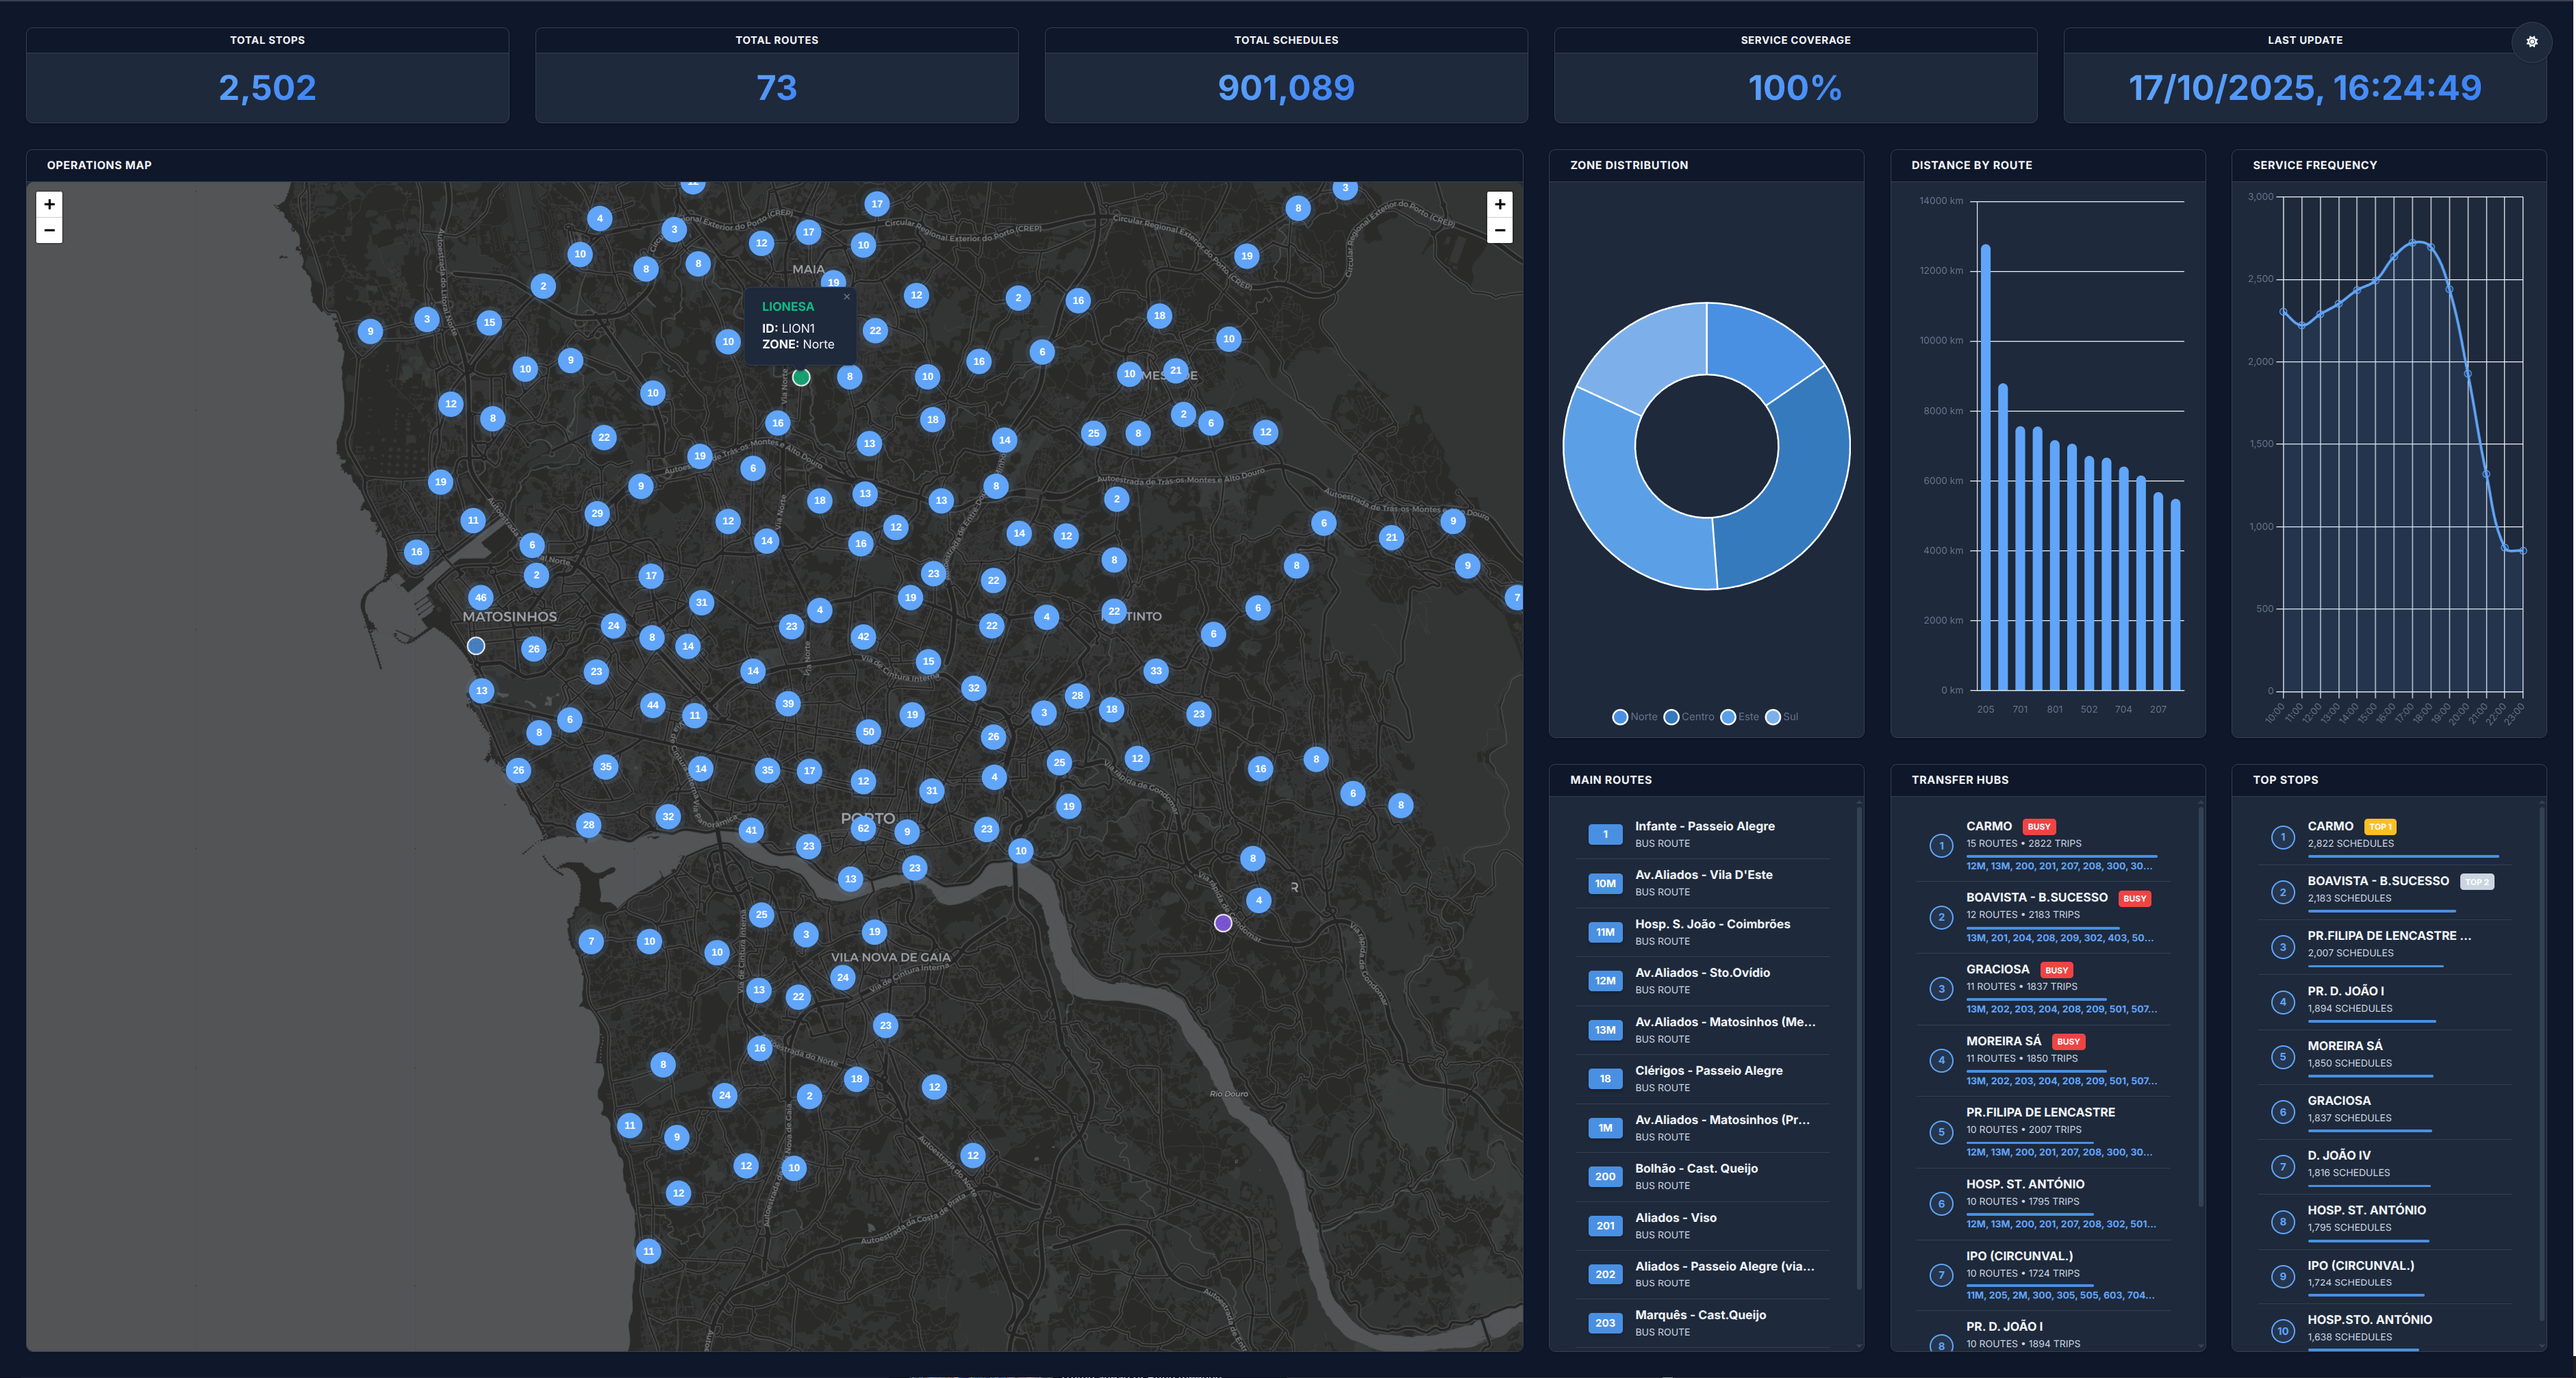
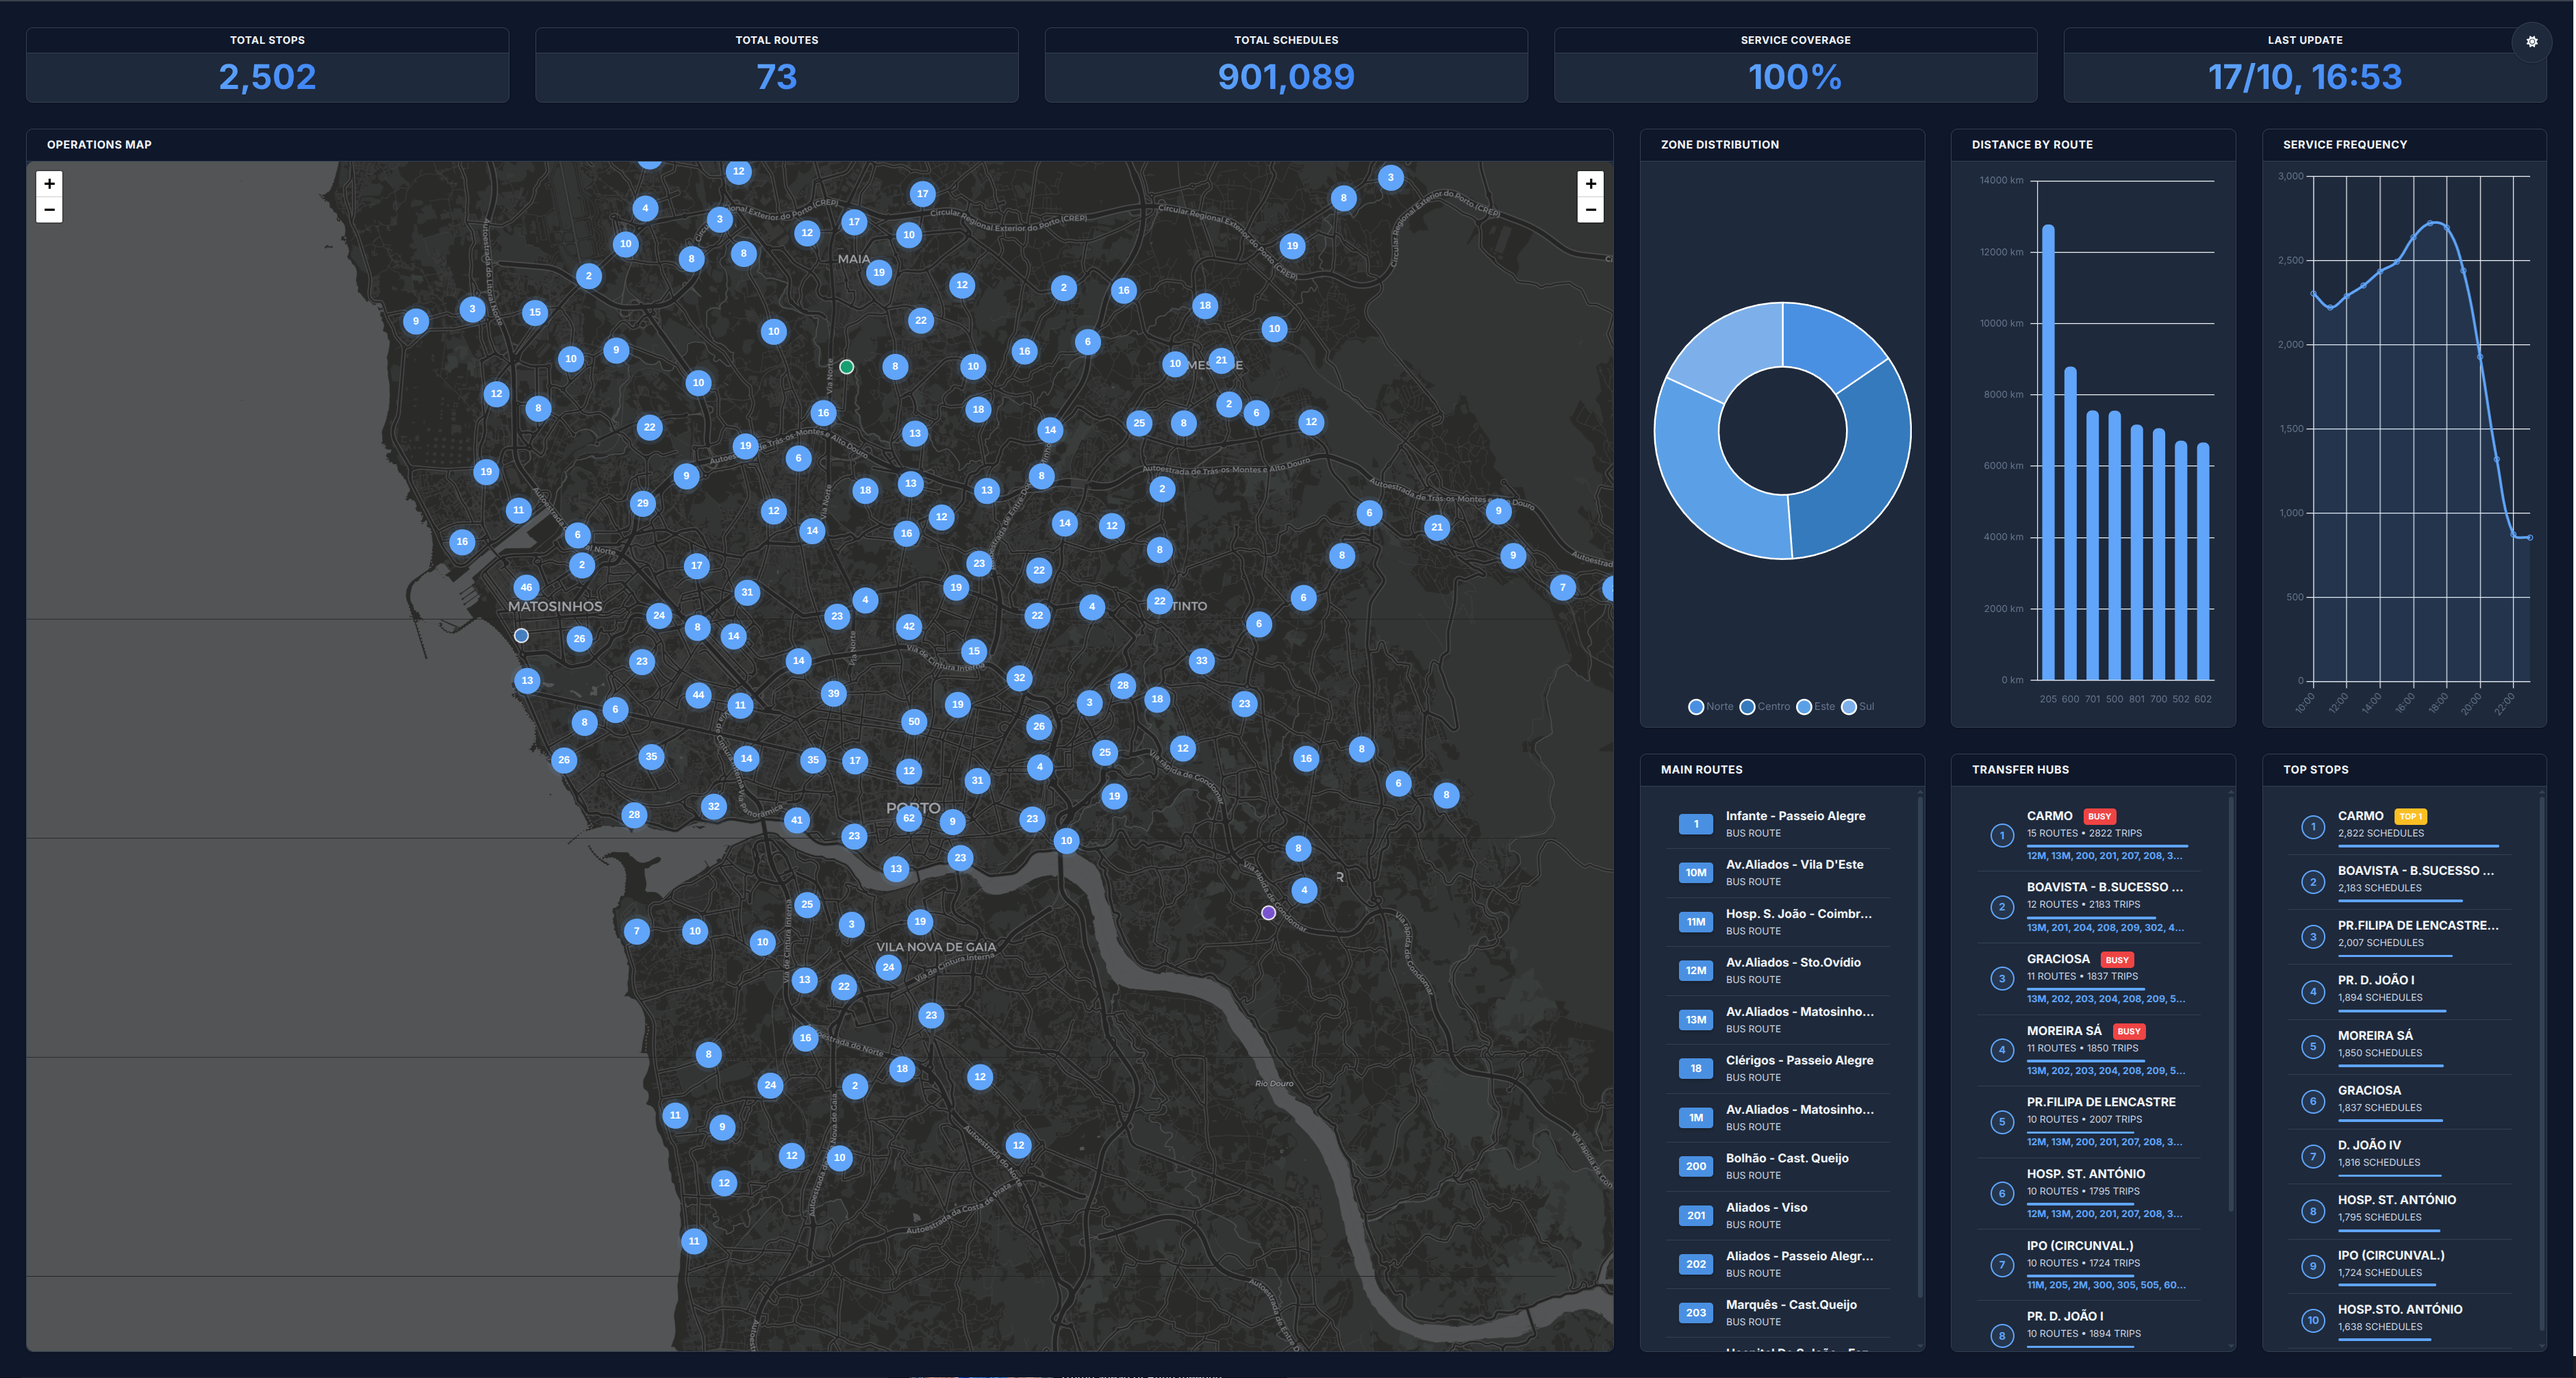
fix: improve responsive layout and loading states consistency
- Increase widget container height for smaller screens (min-height: 40vh)
- Adjust grid ratio to 1.5:1 for better space distribution on <1920px screens
- Set minimum widget height to 200px for improved readability
- Add responsive date format for last update (compact DD/MM HH:MM on <1920px)
- Reduce KPI value font size for better fit (0.9rem-1.5vw-2rem)
- Add word-break to prevent KPI value overflow
- Ensure consistent loading states across all KPIs (skeleton animation)
- Show -- consistently on all KPIs when error occurs (no more ERROR text)
- Fix skeleton loader removal in KPI updates
- Update dashboard screenshot

Changed region(s): [[0.0, 0.0308, 0.9952, 0.9856], [0.7464, 0.0924, 0.8086, 0.154], [0.6842, 0.0308, 0.7153, 0.0924]]

diff --git a/src/dashboard/js/dashboard.js b/src/dashboard/js/dashboard.js
@@ -183,10 +183,20 @@ class STCPDashboard {
     }
 
     updateKPIs(data) {
-        document.getElementById('total-paragens').textContent = data.total_paragens?.toLocaleString() || '--';
-        document.getElementById('total-linhas').textContent = data.total_linhas?.toLocaleString() || '--';
-        document.getElementById('total-horarios').textContent = data.total_horarios?.toLocaleString() || '--';
-        document.getElementById('cobertura').textContent = data.cobertura || '--';
+        const totalParagens = document.getElementById('total-paragens');
+        const totalLinhas = document.getElementById('total-linhas');
+        const totalHorarios = document.getElementById('total-horarios');
+        const cobertura = document.getElementById('cobertura');
+
+        totalParagens.textContent = data.total_paragens?.toLocaleString() || '--';
+        totalLinhas.textContent = data.total_linhas?.toLocaleString() || '--';
+        totalHorarios.textContent = data.total_horarios?.toLocaleString() || '--';
+        cobertura.textContent = data.cobertura || '--';
+
+        // Remove skeleton after updating
+        [totalParagens, totalLinhas, totalHorarios, cobertura].forEach(el => {
+            el.classList.remove('skeleton');
+        });
     }
 
     updateMap(paragens) {
@@ -470,26 +480,51 @@ class STCPDashboard {
 
     updateStatus(status) {
         const lastUpdate = document.getElementById('last-update');
-        const kpiValues = document.querySelectorAll('.kpi-value');
+        const totalParagens = document.getElementById('total-paragens');
+        const totalLinhas = document.getElementById('total-linhas');
+        const totalHorarios = document.getElementById('total-horarios');
+        const cobertura = document.getElementById('cobertura');
 
         switch (status) {
             case 'loading':
-                lastUpdate.textContent = '--';
-                kpiValues.forEach(el => {
-                    if (el.id !== 'last-update') {
-                        el.classList.add('skeleton');
-                        el.textContent = '';
-                    }
+                // Show skeleton on all KPIs during loading
+                [totalParagens, totalLinhas, totalHorarios, cobertura].forEach(el => {
+                    el.classList.add('skeleton');
+                    el.textContent = '';
                 });
+                lastUpdate.textContent = '--';
                 break;
             case 'success':
                 const now = new Date();
-                lastUpdate.textContent = now.toLocaleString('pt-PT', { day: '2-digit', month: '2-digit', year: 'numeric', hour: '2-digit', minute: '2-digit', second: '2-digit' });
-                kpiValues.forEach(el => el.classList.remove('skeleton'));
+                const isMobile = window.innerWidth < 1920;
+
+                if (isMobile) {
+                    // Formato compacto: 17/10 16:38
+                    lastUpdate.textContent = now.toLocaleString('pt-PT', {
+                        day: '2-digit',
+                        month: '2-digit',
+                        hour: '2-digit',
+                        minute: '2-digit'
+                    });
+                } else {
+                    // Formato completo: 17/10/2025 16:38:54
+                    lastUpdate.textContent = now.toLocaleString('pt-PT', {
+                        day: '2-digit',
+                        month: '2-digit',
+                        year: 'numeric',
+                        hour: '2-digit',
+                        minute: '2-digit',
+                        second: '2-digit'
+                    });
+                }
                 break;
             case 'error':
-                lastUpdate.textContent = 'ERROR';
-                kpiValues.forEach(el => el.classList.remove('skeleton'));
+                // Show -- on all KPIs on error
+                [totalParagens, totalLinhas, totalHorarios, cobertura].forEach(el => {
+                    el.classList.remove('skeleton');
+                    el.textContent = '--';
+                });
+                lastUpdate.textContent = '--';
                 break;
         }
     }

diff --git a/src/dashboard/css/style.css b/src/dashboard/css/style.css
@@ -184,13 +184,14 @@ body {
 
 .kpi-value {
     font-family: 'Inter', sans-serif;
-    font-size: clamp(1.2rem, 2vw, 2rem);
+    font-size: clamp(0.9rem, 1.5vw, 2rem);
     font-weight: 700;
     background: var(--gradient);
     -webkit-background-clip: text;
     -webkit-text-fill-color: transparent;
     background-clip: text;
     line-height: 1;
+    word-break: break-all;
 }
 
 .kpi-label {
@@ -520,15 +521,21 @@ body {
 
     .dashboard-grid {
         grid-template-columns: 1fr;
-        grid-template-rows: 2fr 1fr;
+        grid-template-rows: 1.5fr 1fr;
     }
 
     .widgets-container {
         flex-direction: row;
+        min-height: 40vh;
     }
 
     .charts-group, .lists-group {
         flex-direction: column;
+        flex: 1;
+    }
+
+    .charts-group .widget, .lists-group .widget {
+        min-height: 200px;
     }
 }
 
